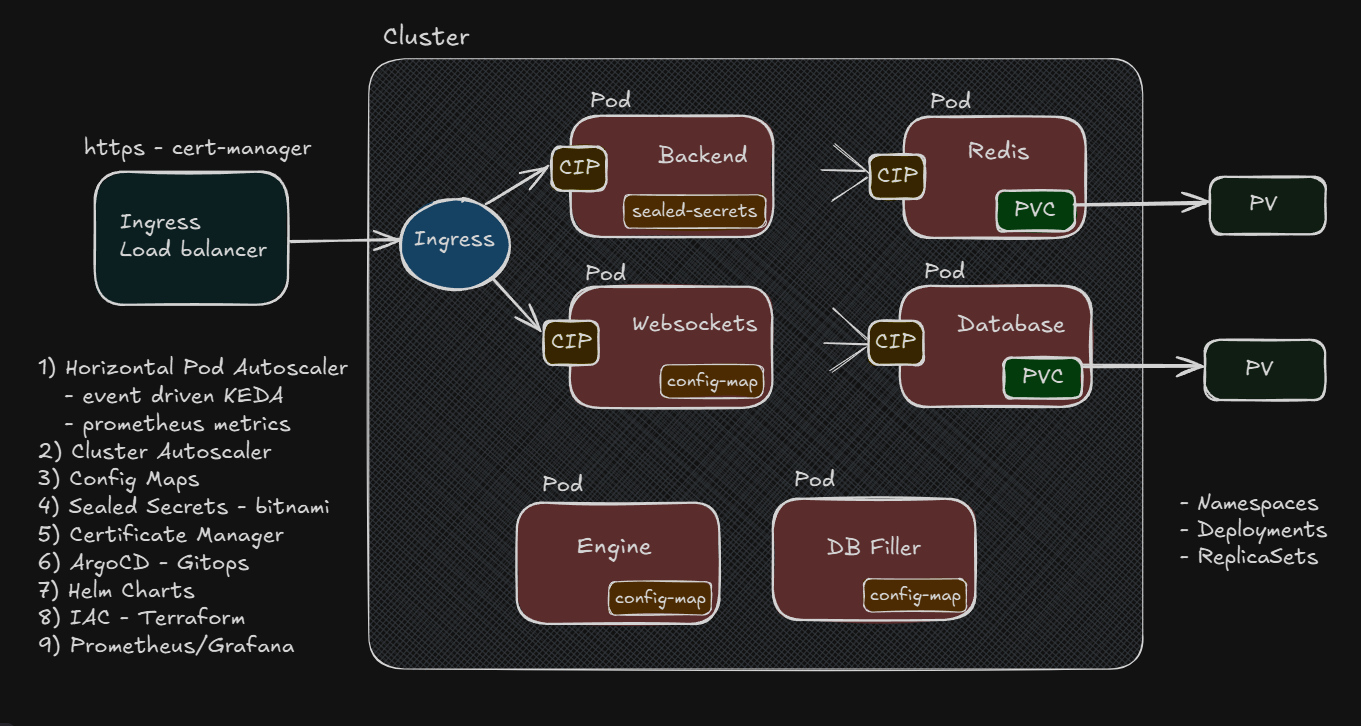
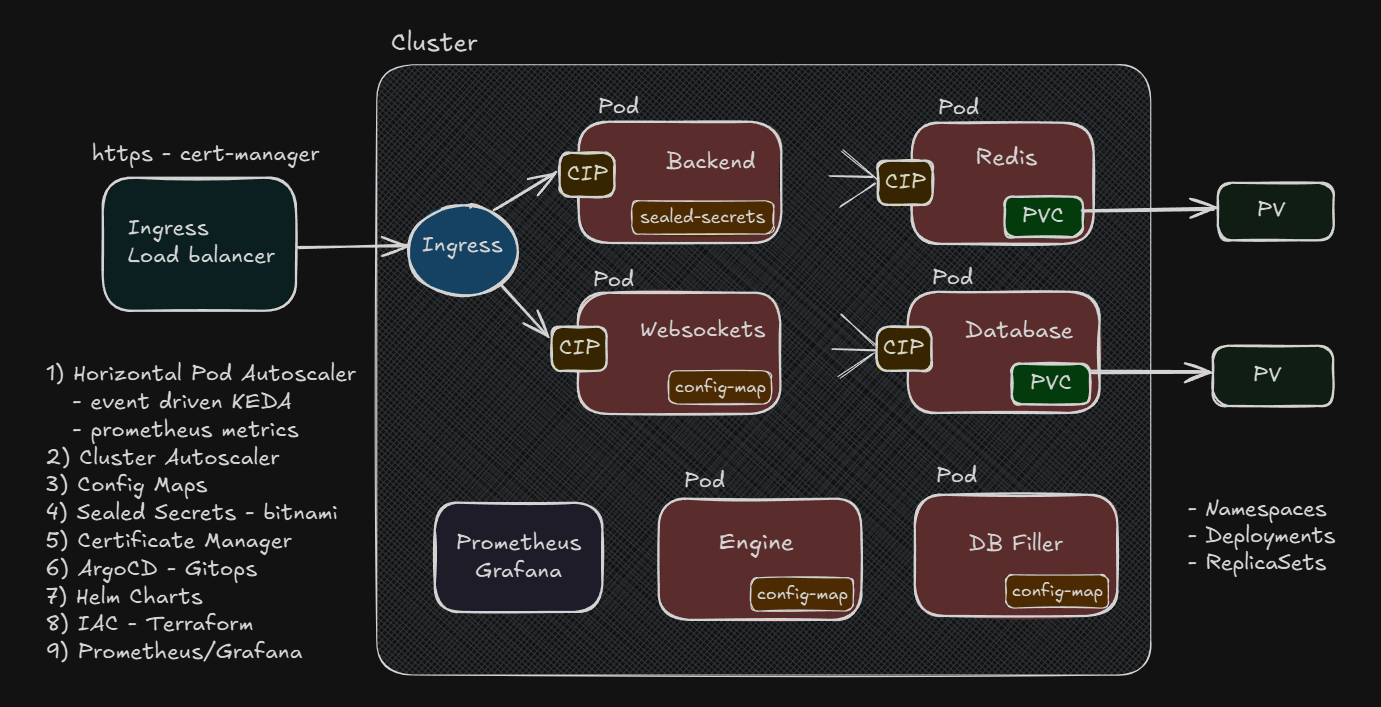
feat: prometheus and grafana monitoring

Changed region(s): [[0.0309, 0.0311, 0.9875, 0.9646]]

diff --git a/monitoring/setup.md b/monitoring/setup.md
@@ -1,0 +1,47 @@
+# Monitoring Setup Guide
+
+### Initial Setup
+
+https://github.com/prometheus-community/helm-charts/tree/main/charts/kube-prometheus-stack
+
+```sh
+kubectl create namespace monitoring
+helm repo add prometheus-community https://prometheus-community.github.io/helm-charts
+helm repo update
+helm install prometheus prometheus-community/kube-prometheus-stack -n monitoring
+```
+
+### Verify Installation
+
+To check the status of kube-prometheus-stack installation:
+
+```sh
+kubectl --namespace monitoring get pods -l "release=prometheus"
+```
+
+### Access Grafana
+
+#### Get Admin Password
+
+To retrieve the Grafana 'admin' user password:
+
+```sh
+kubectl --namespace monitoring get secrets prometheus-grafana -o jsonpath="{.data.admin-password}" | base64 -d ; echo
+```
+
+#### Access Grafana UI
+
+To access the Grafana local instance:
+
+```sh
+export POD_NAME=$(kubectl --namespace monitoring get pod -l "app.kubernetes.io/name=grafana,app.kubernetes.io/instance=prometheus" -oname)
+kubectl --namespace monitoring port-forward $POD_NAME 3000
+```
+
+### Access Prometheus
+
+To access the Prometheus UI:
+
+```sh
+kubectl port-forward svc/prometheus-kube-prometheus-prometheus 9090:9090 -n monitoring
+```
